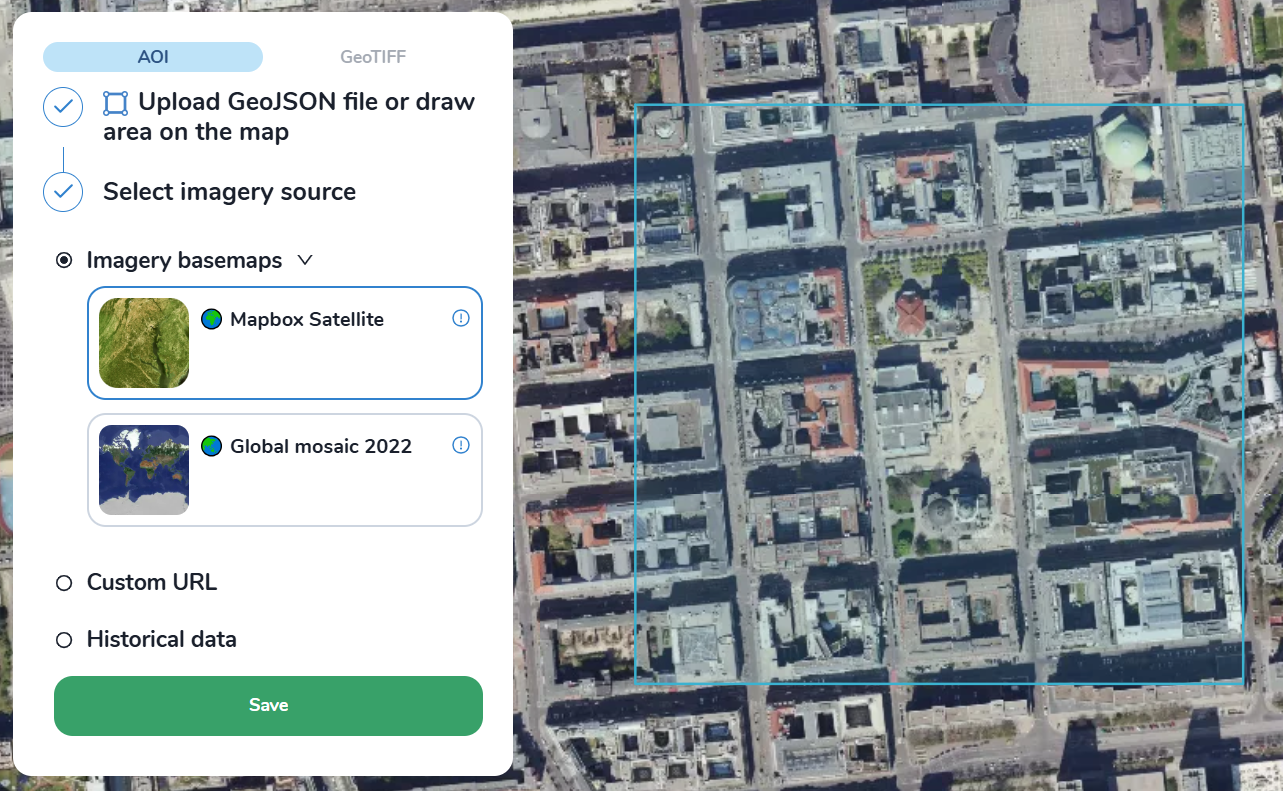
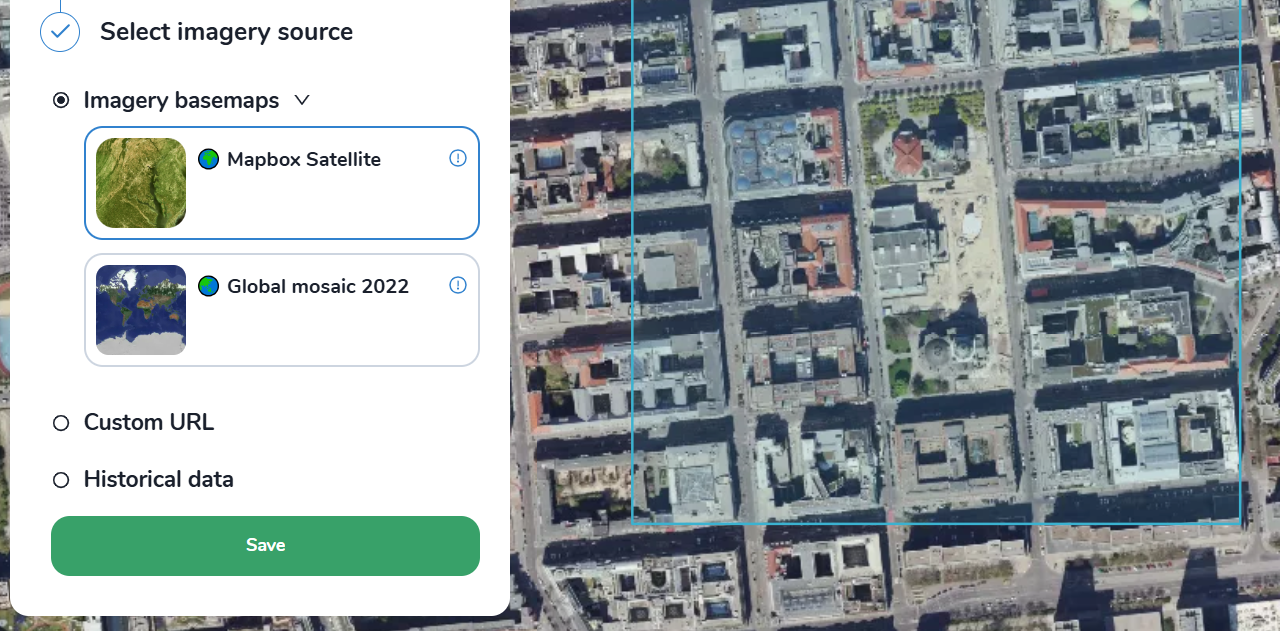
some edits

diff --git a/source/userguides/get_started.rst b/source/userguides/get_started.rst
@@ -98,10 +98,10 @@ Mapflow is designed to be intuitive. Here is our step-by-step user guide:
 
 First step is to set the area of analysis for your project: by **AOI** polygon or by the extent of your **GeoTIFF** image.
 
-.. image:: _static/select_data_source.png
+.. image:: _static/upload_aoi.jpg
     :alt: Select provider
     :align: center
-    :scale: 60
+    :scale: 50
     :class: with-border no-scaled-link
 
 |
@@ -119,9 +119,7 @@ First step is to set the area of analysis for your project: by **AOI** polygon o
 
 The user can draw the area using *Draw rectange* / *Draw polygon* tool or upload it in GeoJSON format (draw and upload, as well as view the data structure, follow this link - `geojson.io <http://geojson.io/>`_).
 
-About *Draw Polygon* tool:
-
-.. warning::
+.. warning:: 
   Note that max limit of total area is **25 km²** for the free plan. The area limit is calculated not by the polygon, but by the **Bounding Box** (`Bbox <https://en.wikipedia.org/wiki/Minimum_bounding_box>`_). Therefore, in this example a warning ``MAX BBOX 100 KM²`` appears in the example below (bounding box is highlighted):
   
   .. image:: _static/bbox_explanation.png
@@ -136,40 +134,28 @@ About *Draw Polygon* tool:
 
 1.2 Upload GeoTIFF
 """"""""""""""""""""
-.. image:: _static/geotiff_upload.png
-  :alt: Imagery providers
+You can upload your aerial images in GeoTiff format. After the image is uploaded, you need to draw/upload an AOI or click "Use Image Extent".
+
+.. image:: _static/upload-gtiff.gif
+  :alt: upload GeoTIFF
   :align: center
-  :width: 15cm
+  :width: 18cm
   :class: with-border no-scaled-link  
-
 |
-
-Here you can upload your own image in GeoTiff format.
-
 .. warning::
     Currently, a preview of the uploaded image is not possible after loading the image, you will see only the area of its extent.
-    
-After the image is uploaded, you need to draw/upload an AOI or click "Use Image Extent".
 
-.. image:: _static/geotiff_aoi.png
-  :alt: Imagery providers
-  :align: center
-  :width: 15cm
-  :class: with-border no-scaled-link  
+    The processing AOI must be located in the area of this extent, otherwise the area will be cut off by the extent boundaries. The processing area is calculated by the intersection of the image extent and the AOI. If the AOI doesn't intersect the image boundaries the error will pop up.
 
-|
-
-The processing AOI must be located in the area of this extent, otherwise the area will be cut off by the extent boundaries. The processing area is calculated by the intersection of the image extent and the AOI. If the AOI doesn't intersect the image boundaries the error will pop up.
-
-Image upload requirements (free plan):
-
-  - The file size must be less than 1 Gb
-  - Both sides image dimensions must not exceed 30.000x30.000 pixels
-  - The image must be georeferenced and the CRS must be one of:
-    - WGS84 (EPSG: 4326)
-    - Web mercator (EPSG: 3857)
-    - `UTM <https://proj.org/operations/projections/utm.html?highlight=utm>`_ (any zone)
-    
+.. note:: 
+    Image upload requirements (free plan):
+      - The file size must be less than 1 Gb
+      - Both sides image dimensions must not exceed 30.000x30.000 pixels
+      - The image must be georeferenced and the CRS must be one of:
+        - WGS84 (EPSG: 4326)
+        - Web mercator (EPSG: 3857)
+        - `UTM <https://proj.org/operations/projections/utm.html?highlight=utm>`_ (any zone)
+        
 
 .. hint::
     If your image doesn't meet the params above, we suggest to use :doc:`Mapflow API <../api/processing_api>` / :doc:`QGIS plugin <../api/qgis_mapflow>` which have more capabilities. There you can also use our new :ref:`My imagery main` tool for storing and processing multiple images. Mapflow supports RGB imagery and also process single-band (panchromatic) imagery, but the AI models are not tuned for such kind of data, so the quality of the result may be worse than expected.
@@ -200,13 +186,11 @@ Imagery providers
 
 |
 
-Here you can select one of the default providers:
+Here you can select one of the default providers that are available in Mapflow, example:
 
 * `Mapbox Satellite <https://mapbox.com/maps/s satellite>`_ is a provider of global high resolution satellite imagery. The date of the image and updates cannot be chosen.
 
 * **"Global mosaic"** is a pilot version of mosaic of high res imagery (0.75–0.5 m/px) for year 2022. The preview is limited to zoom 12. Limited coverage for some countries. The mosaic is planned to be updated on a regular basis. 
-
-By request:
 
 * `ArcGIS World Imagery <https://www.arcgis.com/home/item.html?id=226d23f076da478bba4589e7eae95952>`_ is a provider of the global coverage composed of high and medium resolution satellite imagery and aerial imagery, hosted by ESRI. The frequency of updating images is 1-5 years depending on the territory. 
  
@@ -240,29 +224,20 @@ Custom URL
 ..  * Set source image coordinate reference system (espg:3857 or espg:3395);
 ..  * Set the scale (Zoom), which will be processed. All Mapflow models have their recommended input resolution (see on the page :doc:`Model description <pipelines>`), but sometimes it can be useful to play around with the scales and compare the results;
 
-Historical data
-""""""""""""""""""
+Historical data (Imagery Search)
+"""""""""""""""""""""""""""""""""
 
-.. image:: _static/historical_data_tab.png
+"Imagery search" allows Mapflow users to search for available satellite imagery over their area of analysis.
+It's powered by Mapflow API providing access to the global satellite data providers through our partners. 
+
+.. seealso::
+   👉 See :ref:`Imagery search <Imagery search  main>` for more information and guides.
+  
+  .. image:: _static/historical_data_tab.png
   :alt: Imagery search tab
   :align: center
   :width: 16cm
   :class: with-border no-scaled-link  
-
-|
-
-This tab provides access to the internal Mapflow service “Imagery search". It allows you to search for available satellite imagery over your area of analysis. After setting the desired search parameters (Date range, Clouds, Off-Nadir and other filters), the found images will appear on the map, which can be used for processing.
-
-.. image:: _static/historical_data_images.png
-  :alt: Imagery search results
-  :align: center
-  :width: 16cm
-  :class: with-border no-scaled-link  
-
-|
-
-.. hint::
-    See :ref:`Imagery search <Imagery search  main>` for more information and guides.
 
 
 2. AI model

diff --git a/source/userguides/imagery_search.rst b/source/userguides/imagery_search.rst
@@ -4,16 +4,17 @@ Imagery search
 ================
 
 "Imagery search" allows Mapflow users to search for available satellite imagery over their area of analysis.
-It's powered by Mapflow API providing access to the global satellite data providers and partners. 
+It's powered by Mapflow API providing access to the global satellite data providers through our partners. 
+❗ You need to subscribe to `Mapflow Premium <https://mapflow.ai/pricing>`_ to be able to order commercial data providers and run the model.
 
 Imagery providers available for the search and ordering:
-    * ORBVIEW (aggregates and provides satellite imagery from the leading Chinese satellite operators)
+    * Historical imagery (aggregates and provides satellite imagery from the leading satellite operators)
 
-Imagery providers supported for the account-based integration:
+Imagery providers supported for the account-based integration and search:
     * ArcGIS Worldview
     * :ref:`Maxar secureWatch / MGP <Maxar SecureWatch>`
 
-.. note::
+.. seealso::
     Read more about how to use :ref:`Imagery providers` with Mapflow.
 
 
@@ -34,12 +35,15 @@ To start the processing using the Imagery Search data, you must:
 2. Set the search parameters (Clouds, Off-Nadir, AOI/Scene intersection);
 3. Apply provider filters:
 
-    - "Mosaic" (Global mosaic 2022, ArcGIS World Imagery)
-    - "Image" (Orbview)
+    - "Mosaic"
+    - "Image"
     - "Available for me" - The search results will show only those providers that are connected to your account.
 
-.. note::
-    Filters and search parameters also work in real time for the list of images; for example, you can hide all images from the table or filter only the results from the providers that are available for you.
+.. note:: 
+  Imagery provider types:
+    *Mosaic* - Imagery basemaps like ArcGIS or Global mosaic allowing to search images by date and AOI/Scene intersection.
+    *Image* - Satellite imagery archives allowing to search for historical images by multiple criteria including Clouds, Off-Nadir, and resolution.
+    👉 You can filter the search results by provider type or filter out the results from the providers that are available to you.
 
 4. After clicking "Search Image", a table with search results and images extents will appear:
 
@@ -63,10 +67,14 @@ To start the processing using the Imagery Search data, you must:
 
 6. At the final step, you need to select the desired image by clicking on it in the table and click "Save". Now you are ready to start processing!
 
-Schedule your search
----------------------
+.. warning::
+    👆 You are able to start the processing only using provider that is connected to your account. If you try to use the image from the provider that is not connected, you will see the corresponding warning "The provider is not available for your account, you need to change the plan". You need to subscribe to Mapflow Premium to be able to order commercial data providers. 
 
-If you are not satisfied with the current search results or you want to get new images without repeating the search manually, the search scheduling will help.
+
+NEW! Schedule your search
+----------------------------
+
+If you are not satisfied with the current search results or you want to get new images search updates without repeating the search manually, this service will do the job.
 
 How to create a scheduled search
 ~~~~~~~~~~~~~~~~~~~~~~~~~~~~~~~~
@@ -122,7 +130,7 @@ How to create a scheduled search
 Viewing background search results
 ~~~~~~~~~~~~~~~~~~~~~~~~~~~~~~~~~~
 
-Now a background search will be launched on our side with a certain frequency and you will be notified when new images arrive.
+Now a background search will be launched in Mapflow and you will be notified when new images arrive.
 
 .. figure:: _static/templates_new_images.png
   :alt: Templates new images
@@ -130,10 +138,10 @@ Now a background search will be launched on our side with a certain frequency an
   :width: 13cm
   :class: with-border
 
-  The search card shows the number of new images found in the background. Clicking on an image in the results table will mark it as "seen".
+  The search card shows the number of **new images** found. Clicking on an image in the results table will mark it as "seen".
 
 .. note::
-  To start processing based on the found image you need to select the desired image by clicking on it in the table and click “Save”.
+  To start processing based on the found image you need to select the desired image by clicking on it in the table and clicking “Save” button.
 
 Two key points on viewing results:
 
@@ -199,3 +207,7 @@ Using Mapflow Imagery Search in QGIS
          :class: with-border no-scaled-link
          :width: 18cm
 |
+
+
+.. seealso::
+   👉 See :ref:`Mapflow <> QGIS` for more information on how to use Imagery Search in Mapflow Web and QGIS plugin.

diff --git a/source/userguides/qgis_plugin.rst b/source/userguides/qgis_plugin.rst
@@ -61,7 +61,7 @@ Then, following the instructions, restart QGIS and click "Log in" again. This wi
 
 And in QGIS the main tab of the plugin will open, so you can proceed to the next steps.
 
-**2. Object recognition using Mapbox data provider**
+**2. Object recognition using default data provider**
 
 In order to start processing, first you must specify its name. Next, choose the area of interest by drawing it on the map / loading from a vector file / taking the extent of the map.
 
